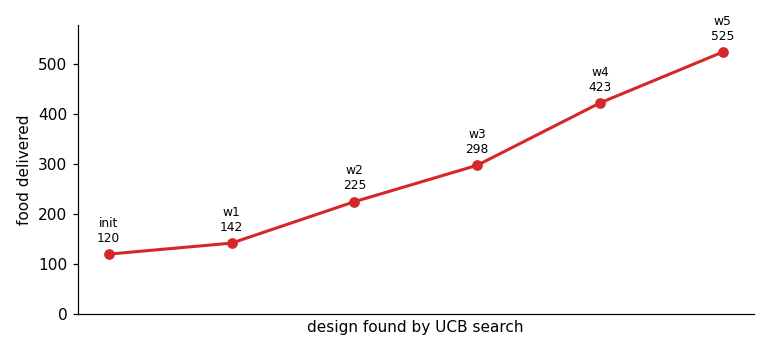
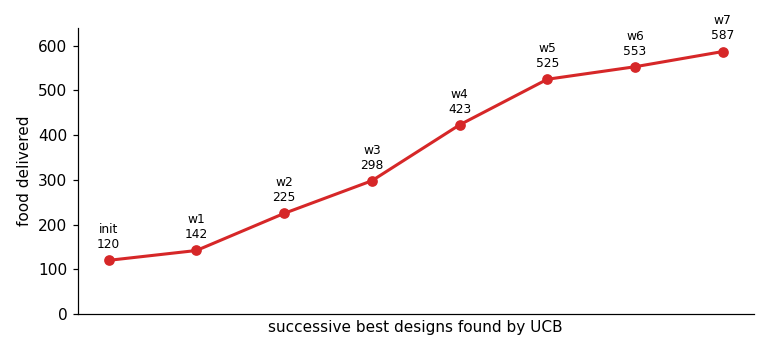
docs: Fig8 5x2; add WINNERS optimization-log table + results discussion; opt curve to 7 winners

diff --git a/docs/tissue_graph.tex b/docs/tissue_graph.tex
@@ -614,6 +614,44 @@ a slow, soft, high-drag, many-celled colony.}
 \label{fig:mazeopt}
 \end{figure}
 
+The optimizer keeps a log of every accepted improvement (the auto-generated
+\code{WINNERS.md}, Table~\ref{tab:winners}), which is itself the finding: it shows
+\emph{what makes a good forager}. Two parameters move monotonically to their bounds
+--- the colony grows to its cap ($n\!\approx\!120$: more foragers deliver more food)
+and the cells soften to the floor ($\text{youngs}\!\to\!20$: soft, deformable cells
+squeeze through the maze far better than the rigid ones we started from). Chemotaxis
+stays strong throughout ($\text{gain}\sim340$--$400$) and the cell radius sits at its
+minimum (smaller cells clear the gaps). The remaining knobs --- motility speed and
+rotation, drag, force cap --- are traded off rather than maximized: the best design
+(\code{winner\_7}) is a balanced, moderate-speed, moderate-drag colony, not any
+extreme. UCB explores widely (the parameter columns are non-monotonic) while the
+best-so-far food rises monotonically by construction. The headline is that the
+search rediscovered, with nothing hand-coded, that a \emph{large swarm of small,
+soft, strongly-chemotactic cells} forages a maze best.
+
+\begin{table}[h]
+\centering\footnotesize
+\renewcommand{\arraystretch}{1.1}
+\begin{tabular}{@{}l r r r r r r r r r@{}}
+\toprule
+\# & food & speed & gain & drag & rot & youngs & a\_max & radius & $n$ \\
+\midrule
+init & 120 & 40 & 180 & 2.00 & 0.30 & 550 & 700 & 0.01 & 60 \\
+1 & 142 & 74 & 379 & 2.54 & 0.10 & 517 & 454 & 0.02 & 46 \\
+2 & 225 & 106 & 253 & 1.25 & 0.31 & 36 & 599 & 0.01 & 88 \\
+3 & 298 & 83 & 270 & 0.97 & 0.48 & 78 & 1362 & 0.01 & 93 \\
+4 & 423 & 49 & 391 & 1.55 & 0.18 & 160 & 1438 & 0.01 & 106 \\
+5 & 525 & 21 & 341 & 2.99 & 0.40 & 24 & 1633 & 0.01 & 120 \\
+6 & 553 & 52 & 400 & 0.92 & 0.56 & 20 & 880 & 0.01 & 116 \\
+7 & 587 & 46 & 342 & 1.70 & 0.39 & 20 & 988 & 0.01 & 120 \\
+\bottomrule
+\end{tabular}
+\caption{The optimization log (\code{WINNERS.md}): the initial design and each
+significantly-better foraging design UCB found, with the eight tuned parameters.
+Food delivered rises from 120 to 587 ($\sim$5$\times$).}
+\label{tab:winners}
+\end{table}
+
 The difference is visible in the trails themselves (Fig.~\ref{fig:initwin}): the
 initial colony barely establishes a route, whereas the optimized one lays a strong
 chemoattractant highway that threads both maze gaps from home to food.